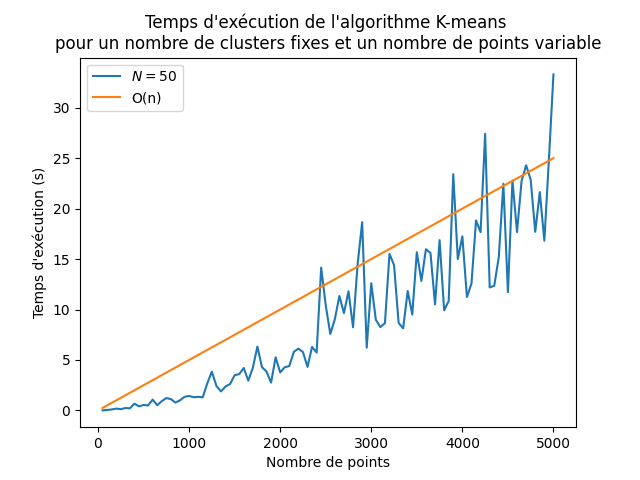
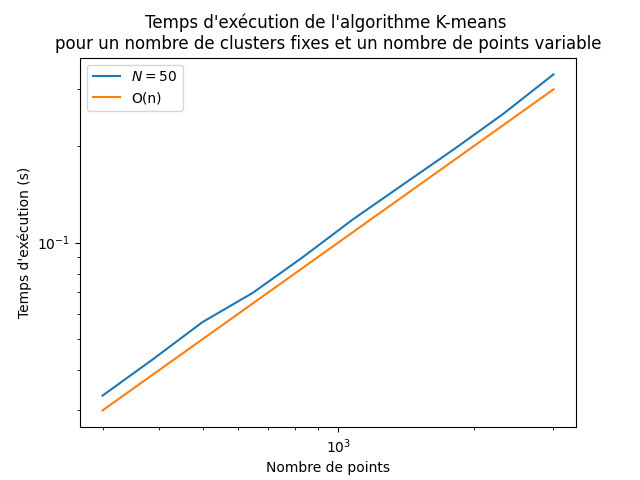
fix kmeans plots

diff --git a/plot/kmeans_plot.py b/plot/kmeans_plot.py
@@ -27,31 +27,30 @@ def kmeans_iteration(N_satellites, cities_coordinates, weights, max_iter = 300) 
                 
             centroids[k] = np.average(cities_coordinates[clusters[k]], axis=0, weights=weights[clusters[k]])
 
-    
-    
 
 def test_N_fixed(N, iterations, average_iteration):
-    results1 = np.zeros((iterations + 1, 2))
-    for i in range(1, iterations + 1):
+    results1 = np.zeros((iterations, 2))
+    cities_n = np.geomspace(300, 3000, iterations, dtype=int)
+    for i in range(iterations):
         time = 0
         for _ in range(average_iteration):
-            n = i*50
-            cities_coordinates = np.random.rand(n, 3)*20
-            weights = np.random.rand(n)
+            cities_coordinates = np.random.rand(cities_n[i], 3)*20
+            weights = np.random.rand(cities_n[i])
             s = clock()
             kmeans_iteration(N, cities_coordinates, weights)
             time += clock() - s
             print(f"{_}/{average_iteration} | {i}")
-        results1[i, :] = [n, time/average_iteration]
+        results1[i, :] = [cities_n[i], time/average_iteration]
         print(i)
     return results1
 
 def test_n_fixed(n, iterations, average_iteration):
-    results2 = np.zeros((iterations + 1, 2))
-    for i in range(1, iterations + 1):
+    results2 = np.zeros((iterations, 2))
+    sat_n = np.geomspace(10, 100, iterations, dtype=int)
+    for i in range(iterations):
         time = 0
         for _ in range(average_iteration):
-            N = 10*i
+            N = sat_n[i]
             cities_coordinates = np.random.rand(n, 3)*20
             weights = np.random.rand(n)
             s = clock()
@@ -63,15 +62,14 @@ def test_n_fixed(n, iterations, average_iteration):
     return results2
 
     
-iterations = 50
+iterations = 10
 average_iteration = 10
 
 results1 = test_N_fixed(50, iterations, average_iteration)
 results2 = test_n_fixed(1000, iterations, average_iteration)
-    
 
-plt.plot(results1[1:, 0], results1[1:, 1], label = r"$N = 50$")
-plt.plot(results1[1:, 0], 5e-3*results1[1:, 0], label = r"O(n)")
+plt.loglog(results1[:, 0], results1[:, 1], label = r"$N = 50$")
+plt.loglog(results1[:, 0], 1e-4*results1[:, 0], label = r"O(n)")
 plt.title("Temps d'exécution de l'algorithme K-means \npour un nombre de clusters fixes et un nombre de points variable")
 plt.xlabel("Nombre de points")
 plt.ylabel("Temps d'exécution (s)")
@@ -80,8 +78,8 @@ plt.savefig("kmeans_plot_N_50.png")
 
 plt.clf()
 
-plt.plot(results2[:, 0], results2[:, 1], label = r"$n = 1000$")
-plt.plot(results2[:, 0], 2e-3*results2[:, 0], label = r"O(n)")
+plt.loglog(results2[:, 0], results2[:, 1], label = r"$n = 1000$")
+plt.loglog(results2[:, 0], 2e-3*results2[:, 0], label = r"O(n)")
 plt.title("Temps d'exécution de l'algorithme K-means \npour un nombre de points fixes et un nombre de clusters variable")
 plt.xlabel("Nombre de clusters")
 plt.ylabel("Temps d'exécution (s)")
